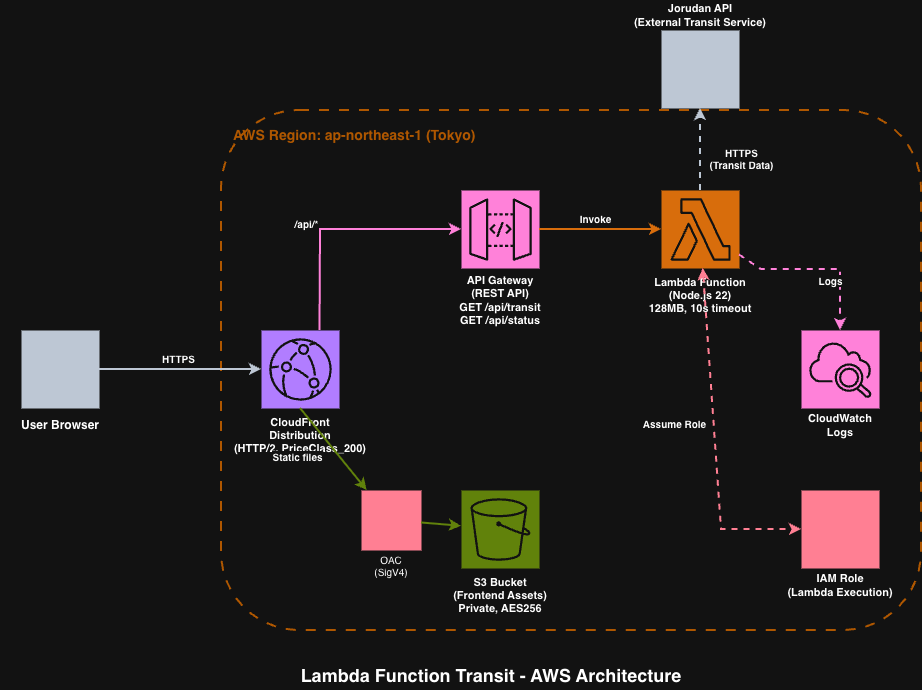
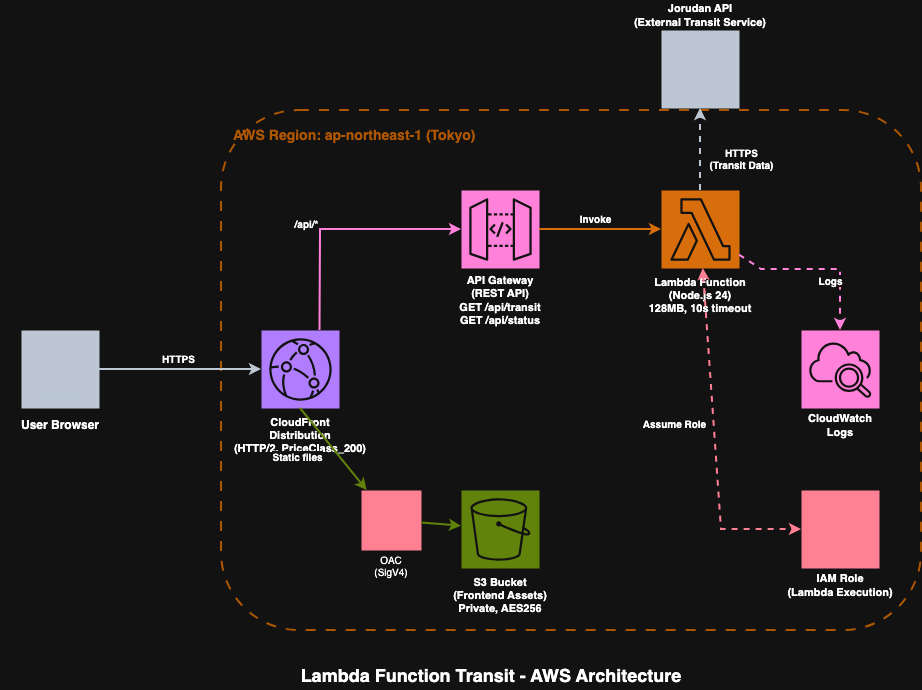
build(runtime): upgrade Node.js baseline from 22 to 24
- Set the Lambda runtime to nodejs24.x, move both Dockerfiles and the
  frontend Dockerfile to the Node 24 base images, and declare
  "node": ">=24.0.0" in all three packages (frontend gains the field)
- Bump frontend @types/node to ^24 and regenerate both lockfiles so the
  type surface matches the runtime major
- Re-export the AWS architecture diagram PNG with the Node.js 24 label
  and the diagram source re-embedded, and sweep the Node version wording
  in README, CLAUDE.md, docs/architecture.md, the handler header comment
  and the pentesting skill

fixes #109

diff --git a/.claude/skills/x-pentesting/SKILL.md b/.claude/skills/x-pentesting/SKILL.md
@@ -39,7 +39,7 @@ This skill is tuned for this project. If you adapt it to another codebase, revie
 |------------|-------|-------|
 | Backend entry point | `src/index.mjs` | all phases |
 | Dev server file | `src/dev-server.mjs` | Phase 0, 3 |
-| Stack | Node.js 22 ESM, raw Lambda handler (no Express, no middleware) | Phase 1 agent prompts |
+| Stack | Node.js 24 ESM, raw Lambda handler (no Express, no middleware) | Phase 1 agent prompts |
 | Dev server command | `node src/dev-server.mjs` | Phase 3 |
 | Health endpoint (dev) | `/status` (NOT `/api/status`) | Phase 3 probe |
 | Transit endpoint (dev) | `/transit` (NOT `/api/transit`) | Phase 3 tests |
@@ -70,7 +70,7 @@ Phase 3 tests that find missing security headers or limited method support on th
 Verify before starting. Stop and report the missing item if any check fails.
 
 1. Port 8000 must be free (`lsof -i :8000` returns nothing)
-2. `node --version` must be >= 22
+2. `node --version` must be >= 24
 3. Current working directory must be the repo root
 4. `ls frontend/node_modules` must exist (run `npm ci --prefix frontend` if missing)
 

diff --git a/docs/architecture.md b/docs/architecture.md
@@ -18,7 +18,7 @@ The full AWS architecture diagram lives at [`diagrams/lambda-function-transit-aw
 | Edge | CloudFront | Serves the React SPA from S3 and proxies `/api/*` to API Gateway. Protected by an AWS WAF Web ACL required by the CloudFront flat-rate pricing plan. |
 | Static hosting | S3 | Hosts the built Vite bundle. Sync target after `cd frontend && npm run build`. |
 | API | API Gateway (HTTP) | Routes `GET /api/transit` and `GET /api/status` to the Lambda function. |
-| Compute | AWS Lambda (Node.js 22, ESM) | Entry point: `src/index.mjs` → `handler(event, context)`. Region: `ap-northeast-1`. |
+| Compute | AWS Lambda (Node.js 24, ESM) | Entry point: `src/index.mjs` → `handler(event, context)`. Region: `ap-northeast-1`. |
 | Upstream | Jorudan | Public Japanese transit search. Requires a 6-hop, cross-subdomain cookie handshake to bypass bot detection (see §5 Data Flow). |
 
 ## 3. Layers & Modules

diff --git a/docs/acceptance-patterns.md b/docs/acceptance-patterns.md
@@ -1,0 +1,5 @@
+# Acceptance Criteria Patterns
+
+The issue-opening skill reads this file before it writes acceptance criteria, so a criterion shape recorded here is applied to every issue authored afterwards.
+
+- Trigger: a criterion demanding that a repository-wide text search return zero matches, with the files that may legitimately still match named as a frozen exclusion list -> Rule: scope the search to the paths the change is allowed to edit instead of enumerating exclusions, because records added between issue creation and the fix can introduce matches that the list cannot anticipate and that the fix is forbidden to touch, leaving a criterion no correct implementation can satisfy.

diff --git a/CLAUDE.md b/CLAUDE.md
@@ -12,7 +12,7 @@ Fetches train transit information from [Jorudan](https://www.jorudan.co.jp/) (a 
 CloudFront + S3 (Frontend) → API Gateway → Lambda → Jorudan
 ```
 
-- **Backend Runtime**: Node.js 22 (ESM)
+- **Backend Runtime**: Node.js 24 (ESM)
 - **Frontend**: React 19 + TypeScript + Vite
 - **Entry point**: `src/index.mjs` → `handler(event, context)`
 - **API Gateway routes**: `GET /api/transit`, `GET /api/status`

diff --git a/README.md b/README.md
@@ -6,7 +6,7 @@ AWS Lambda function that fetches train transit information from [Jorudan](https:
 
 ## Tech Stack
 
-- Node.js 22 (ESM)
+- Node.js 24 (ESM)
 - AWS Lambda + API Gateway
 - AWS SAM (Serverless Application Model)
 - Docker (local development)
